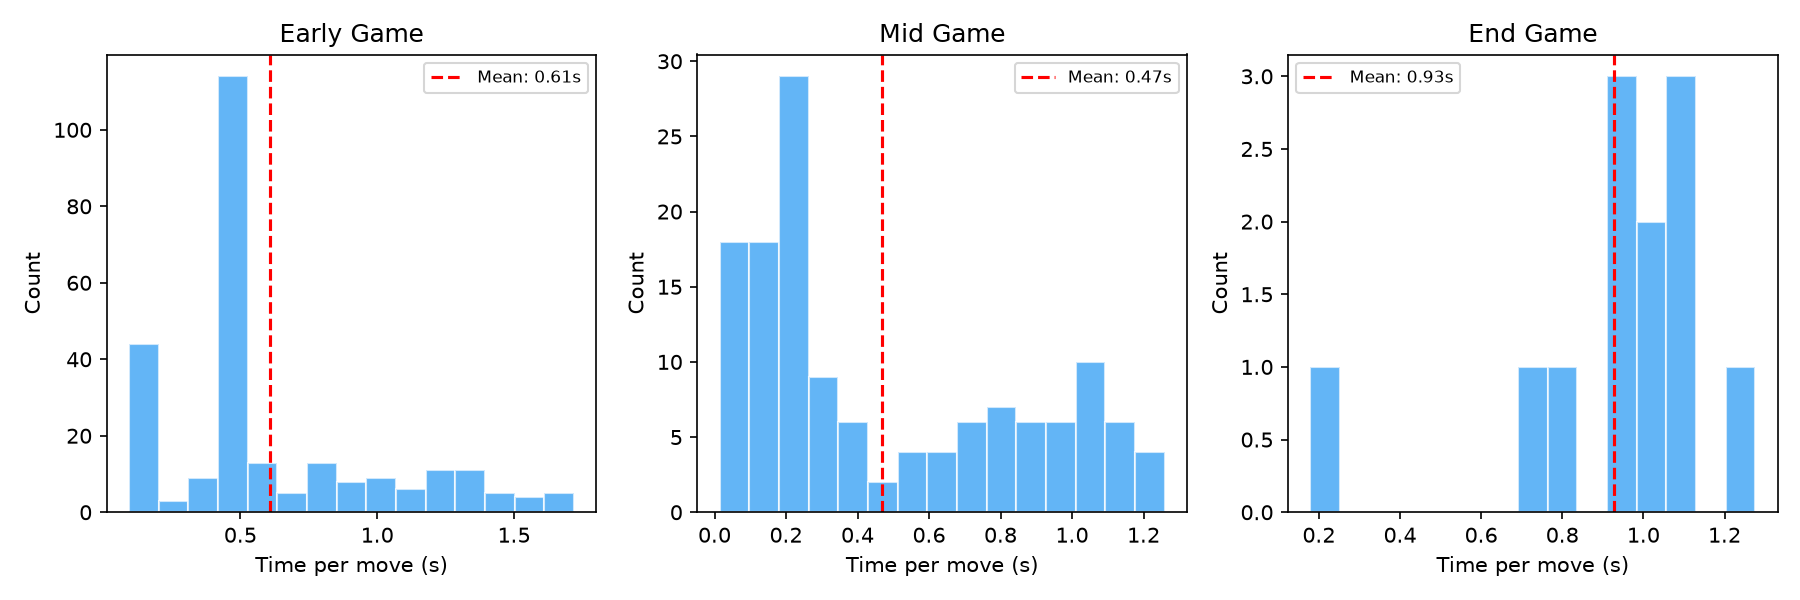
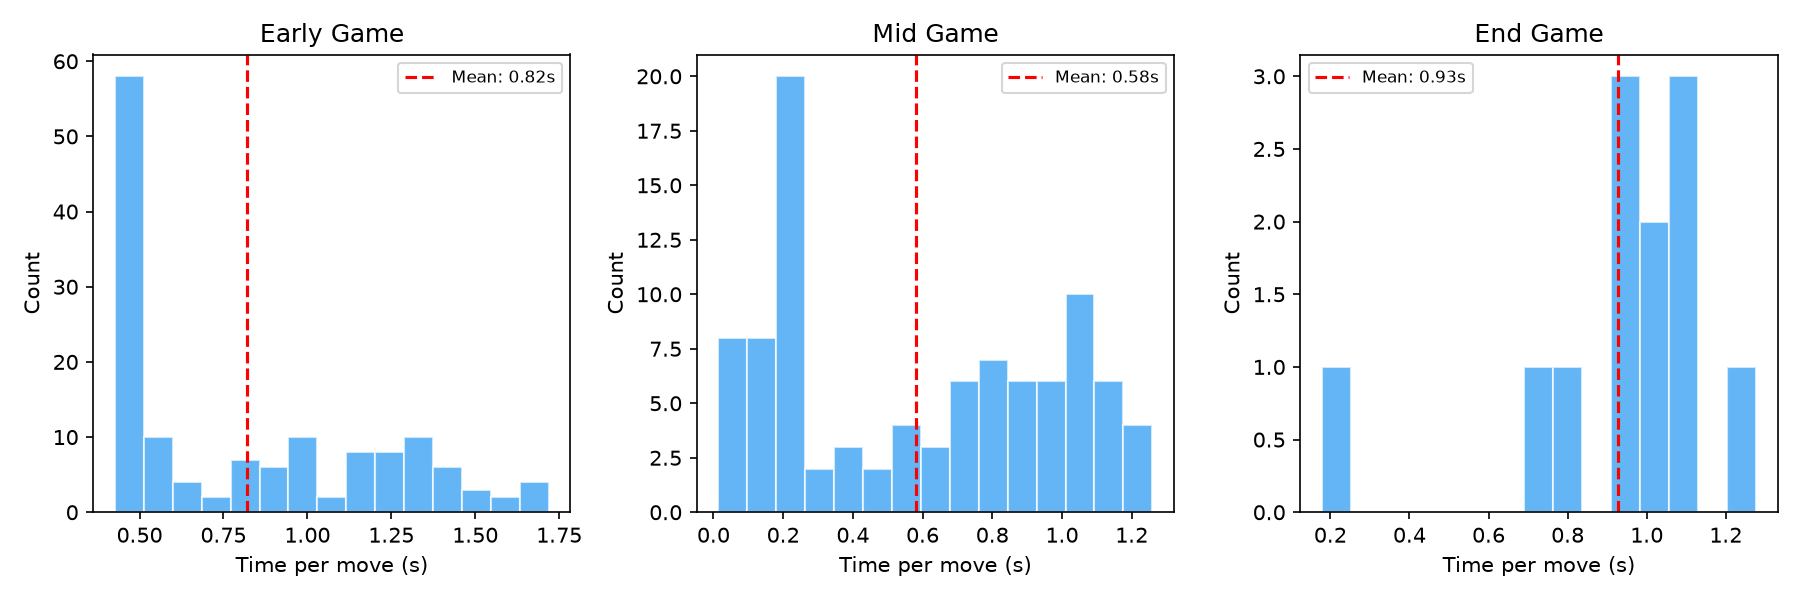
refactor: remove sims=200 and sims=800 comparison data
- Clean matches.csv: remove 120 rows with sims=200/800
- Update report: keep only 2 scenarios (RL legacy + AlphaZero sims=80)
- Regenerate charts with clean data

diff --git a/docs/bao_cao.md b/docs/bao_cao.md
@@ -501,17 +501,11 @@ Pipeline tự động xoay vòng: dữ liệu cũ bị ghi đè khi buffer đầ
 | # | Scenario | Minimax | AlphaZero | Kết quả (thắng-hòa-thua) | Ghi chú |
 |:-:|----------|:-------:|:---------:|:------------------------:|---------|
 | 1 | Minimax(d=3) vs RL Agent (legacy) | depth=3 | — | **20-0-0** | RL Agent cũ (policy net thuần), không có MCTS |
-| 2 | Minimax(d=3) vs AlphaZero | depth=3 | sims=200 | **20-0-0** | AlphaZero dùng sims=200 (không khớp với training) |
-| 3 | Minimax(d=3) vs AlphaZero | depth=3 | **sims=80** | **82-2-16** | 100 trận: AlphaZero cạnh tranh 25 trận đầu, sau đó deterministic |
-| 4 | Minimax(d=2) vs AlphaZero | depth=2 | sims=800 | **20-0-0** | Minh họa sức mạnh Minimax với độ sâu thấp nhất |
-| 5 | Minimax(d=0) vs AlphaZero | depth=0 | sims=800 | **0-0-20** | Minimax depth=0 chỉ là heuristic thuần túy |
-| 6 | Minimax(d=1) vs AlphaZero | depth=1 | sims=800 | **20-0-0** | Chỉ cần minimax depth=1 là đã thắng tuyệt đối |
+| 2 | Minimax(d=3) vs AlphaZero | depth=3 | sims=80 | **82-2-16** | 100 trận: AlphaZero cạnh tranh 25 trận đầu, sau đó deterministic |
 
 **Nhận xét chung:**
 - **RL Agent legacy** (không MCTS) thua tuyệt đối 20-0 trước Minimax(d=3) — agent này chỉ dựa trên policy network thuần, không có search.
 - **AlphaZeroAgent (ResNet + MCTS) với sims=80** cạnh tranh tốt với Minimax(d=3) trong 25 trận đầu (44% win rate), nhưng bị hội tụ deterministic sau ~35 trận, kết quả chung 100 trận là **16-2-82**.
-- Khi tăng MCTS simulations lên 200 hoặc 800, AlphaZero lại thua nhiều hơn — do model được train với sims=80 nên policy prior không còn phù hợp với số sims cao hơn.
-- Minimax depth=0 (chỉ heuristic evaluation) thua AlphaZero 0-20, xác nhận heuristic đơn thuần không đủ mạnh.
 
 ### 10.2 Minimax(d=3) vs RL Agent (Legacy) — 20 matches
 